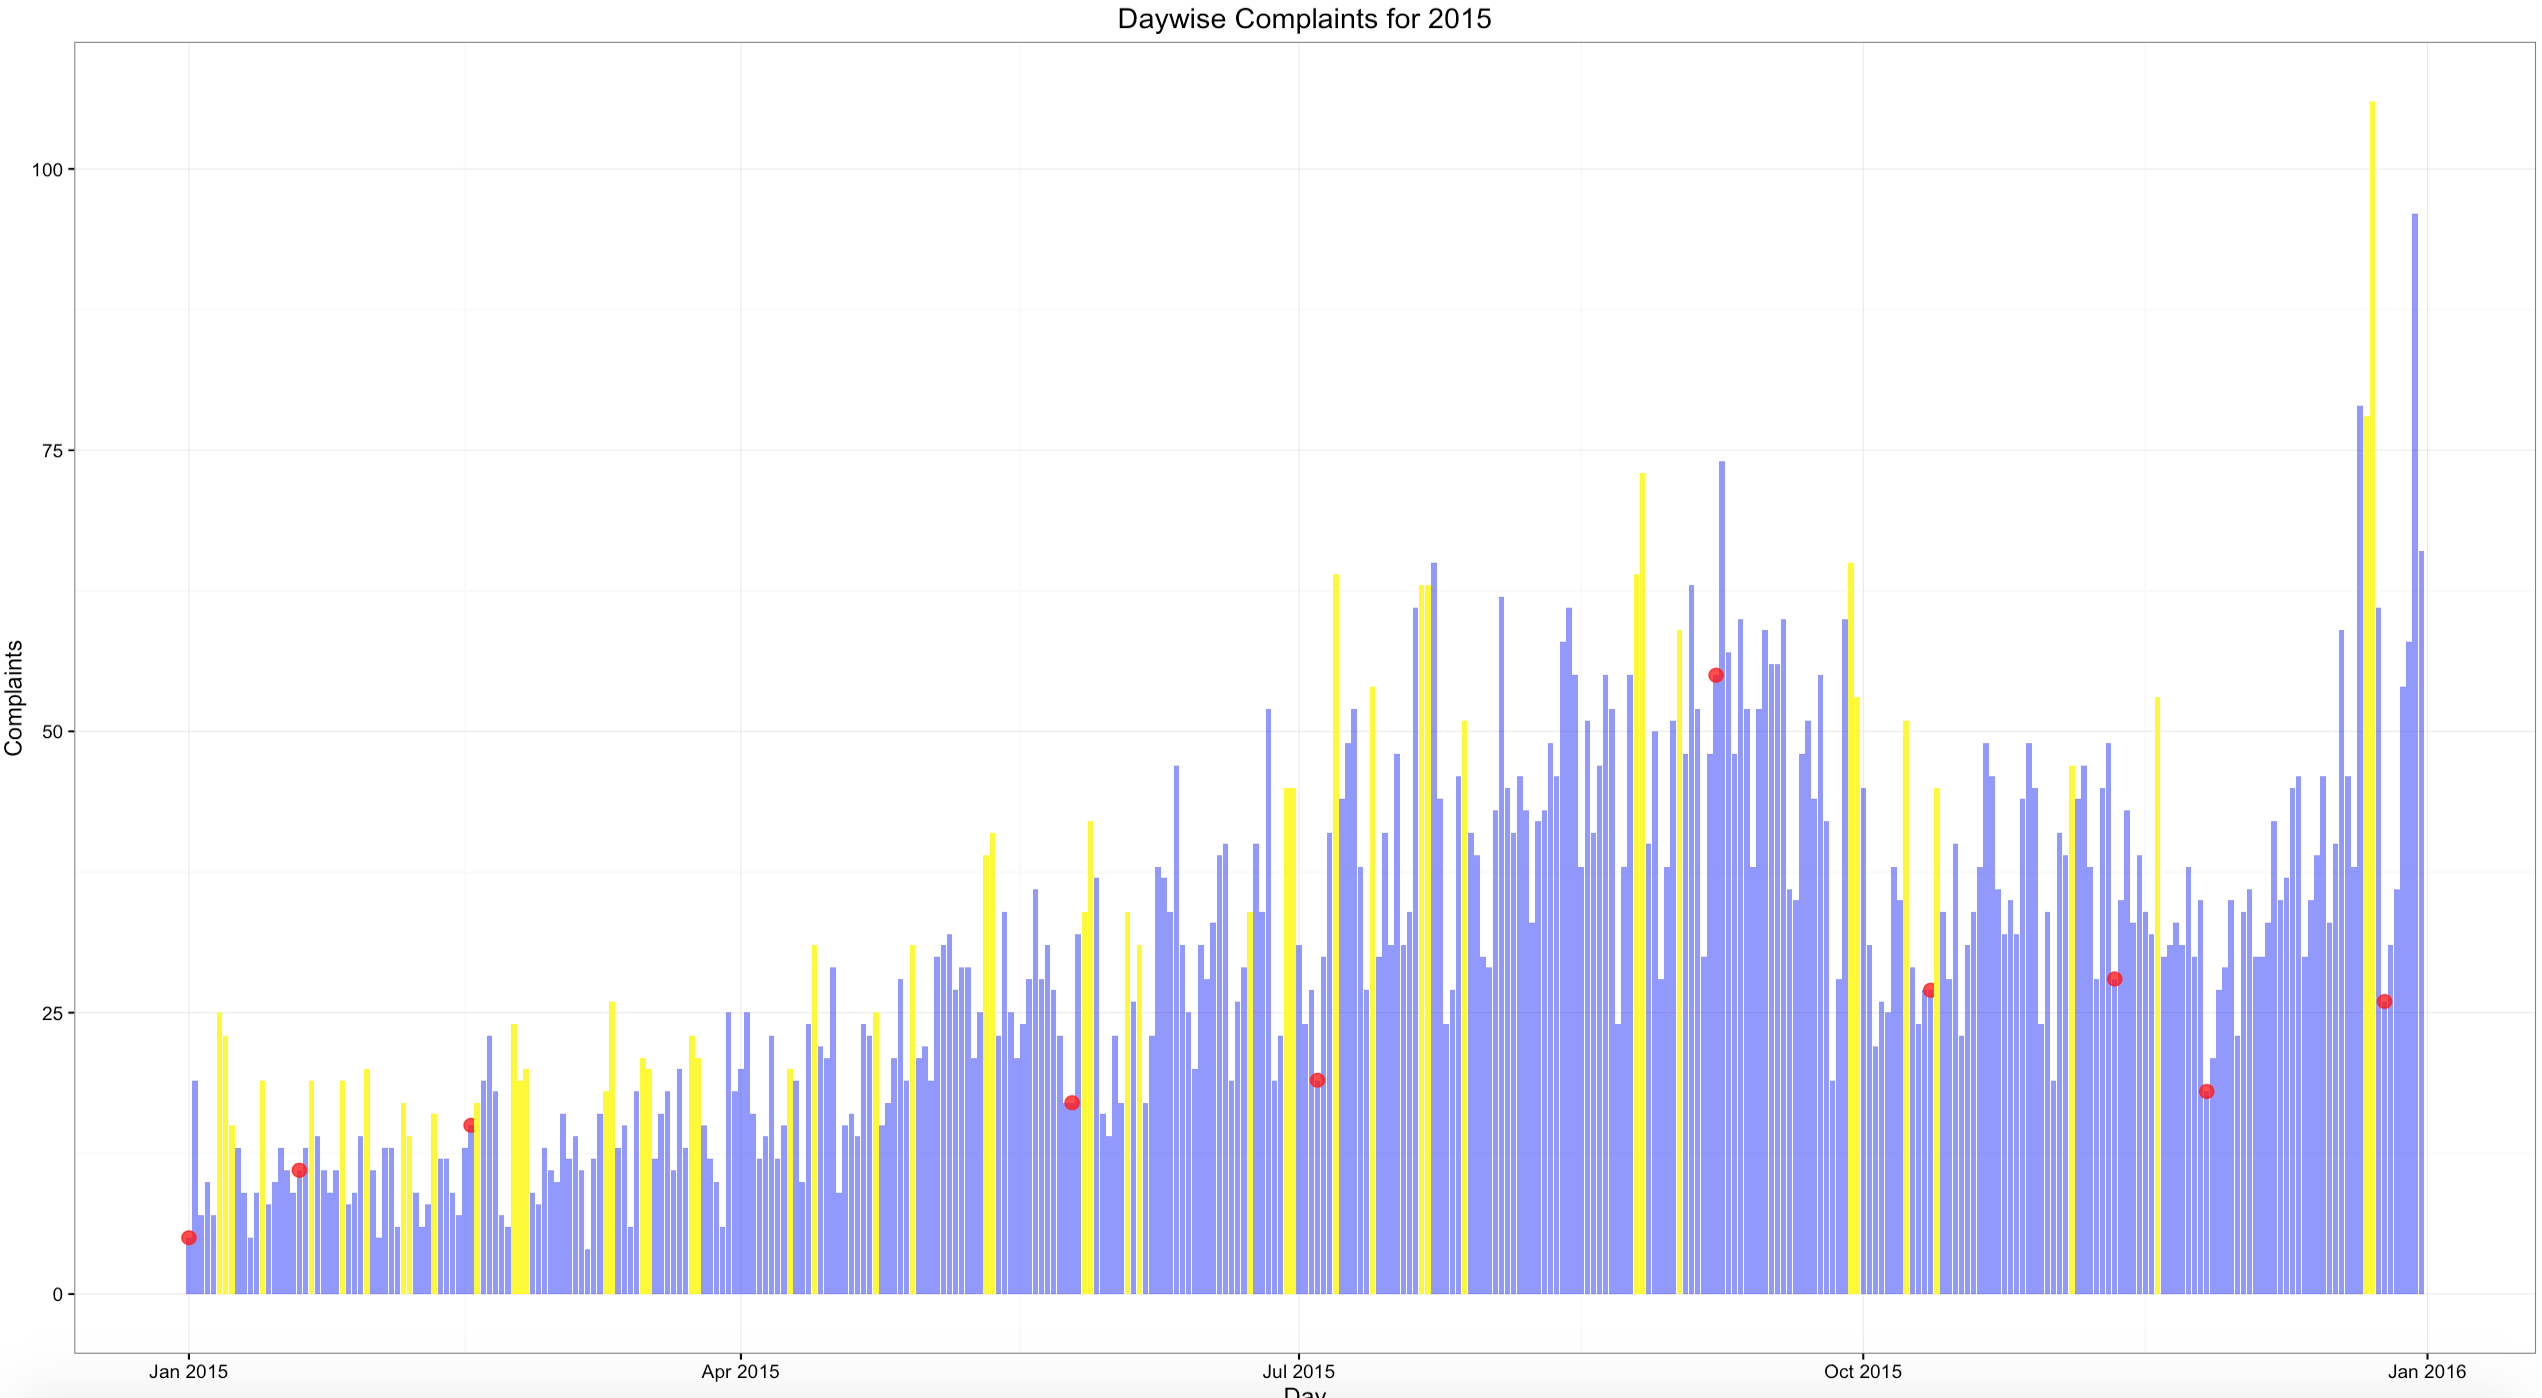
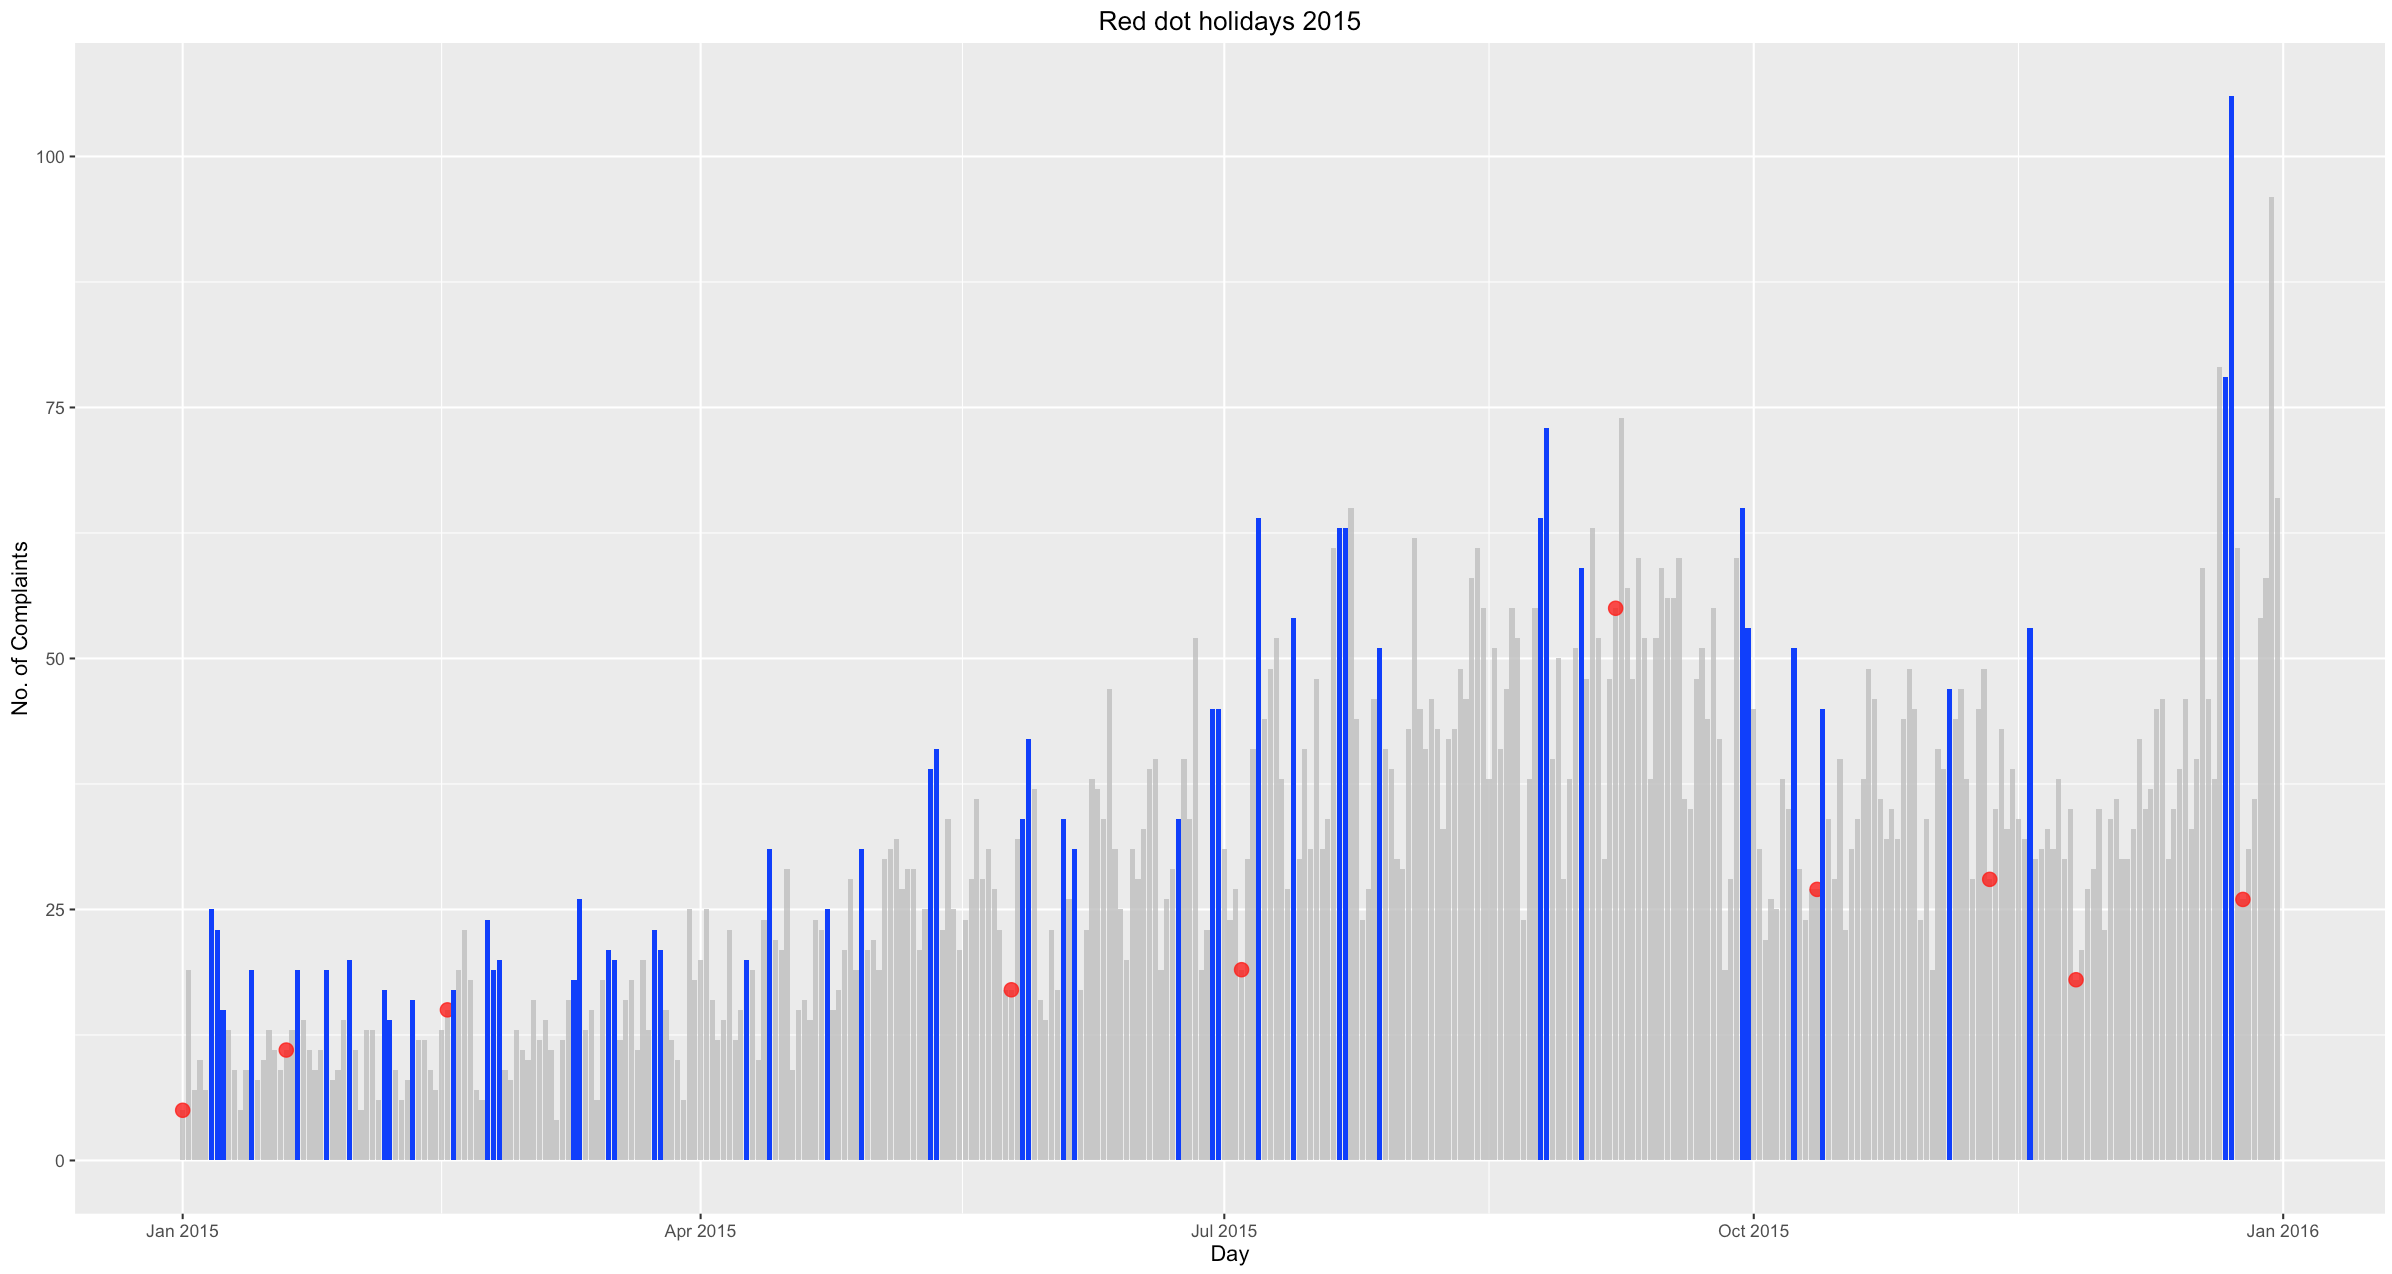
holiday source added

diff --git a/_site/jekyll/update/2016/07/02/NYC-311-homeless.html b/_site/jekyll/update/2016/07/02/NYC-311-homeless.html
@@ -114,7 +114,7 @@
 
 <p><img src="/images/daywise.png" alt="homeless_complaints_daywise" /></p>
 
-<p>Does the December 25 pattern repeat for other holidays? I superimposed the holidays with <code class="highlighter-rouge">Red</code> dots on the above daywise graph:</p>
+<p>Does the December 25 pattern repeat for other holidays? I superimposed the <a href="https://www.newyorkfed.org/aboutthefed/holiday_schedule.html">holidays</a> with <code class="highlighter-rouge">Red</code> dots on the above daywise graph:</p>
 
 <figure class="highlight"><pre><code class="language-ruby" data-lang="ruby"><span class="n">threshold</span><span class="o">=</span><span class="mi">0</span><span class="o">.</span><span class="mi">6</span>
 <span class="n">win_length</span> <span class="o">=</span> <span class="mi">3</span>
@@ -145,7 +145,7 @@
 
 <p>The yellow peaks are some sort of a local maximum. These are the days/points in the year when within both +3 days and -3 days window we find days when the homeless complaints drop to 60% of the number of complaints that were observed on that particular day.</p>
 
-<p>Interesting insight that a local maxima usually occurs <code class="highlighter-rouge">around</code> the festival date and generally not on that particular date.</p>
+<p>Interesting insight that a local maxima usually occurs <code class="highlighter-rouge">around</code> the holiday/festival date and generally not on that particular day.</p>
 
 
   </div>
@@ -190,7 +190,7 @@
       </div>
 
       <div class="footer-col footer-col-3">
-        <p>Trying to find the answers to life universe and everything in datum
+        <p>Trying to find the answers to life universe and everything in datum.
 </p>
       </div>
     </div>

diff --git a/_site/index.html b/_site/index.html
@@ -7,7 +7,7 @@
   <meta name="viewport" content="width=device-width, initial-scale=1">
 
   <title>Datum Dweller</title>
-  <meta name="description" content="Trying to find the answers to life universe and everything in datum
+  <meta name="description" content="Trying to find the answers to life universe and everything in datum.
 ">
 
   <link rel="stylesheet" href="/css/main.css">
@@ -113,7 +113,7 @@
       </div>
 
       <div class="footer-col footer-col-3">
-        <p>Trying to find the answers to life universe and everything in datum
+        <p>Trying to find the answers to life universe and everything in datum.
 </p>
       </div>
     </div>

diff --git a/_site/about/index.html b/_site/about/index.html
@@ -7,7 +7,7 @@
   <meta name="viewport" content="width=device-width, initial-scale=1">
 
   <title>About</title>
-  <meta name="description" content="Trying to find the answers to life universe and everything in datum
+  <meta name="description" content="Trying to find the answers to life universe and everything in datum.
 ">
 
   <link rel="stylesheet" href="/css/main.css">
@@ -110,7 +110,7 @@
       </div>
 
       <div class="footer-col footer-col-3">
-        <p>Trying to find the answers to life universe and everything in datum
+        <p>Trying to find the answers to life universe and everything in datum.
 </p>
       </div>
     </div>
